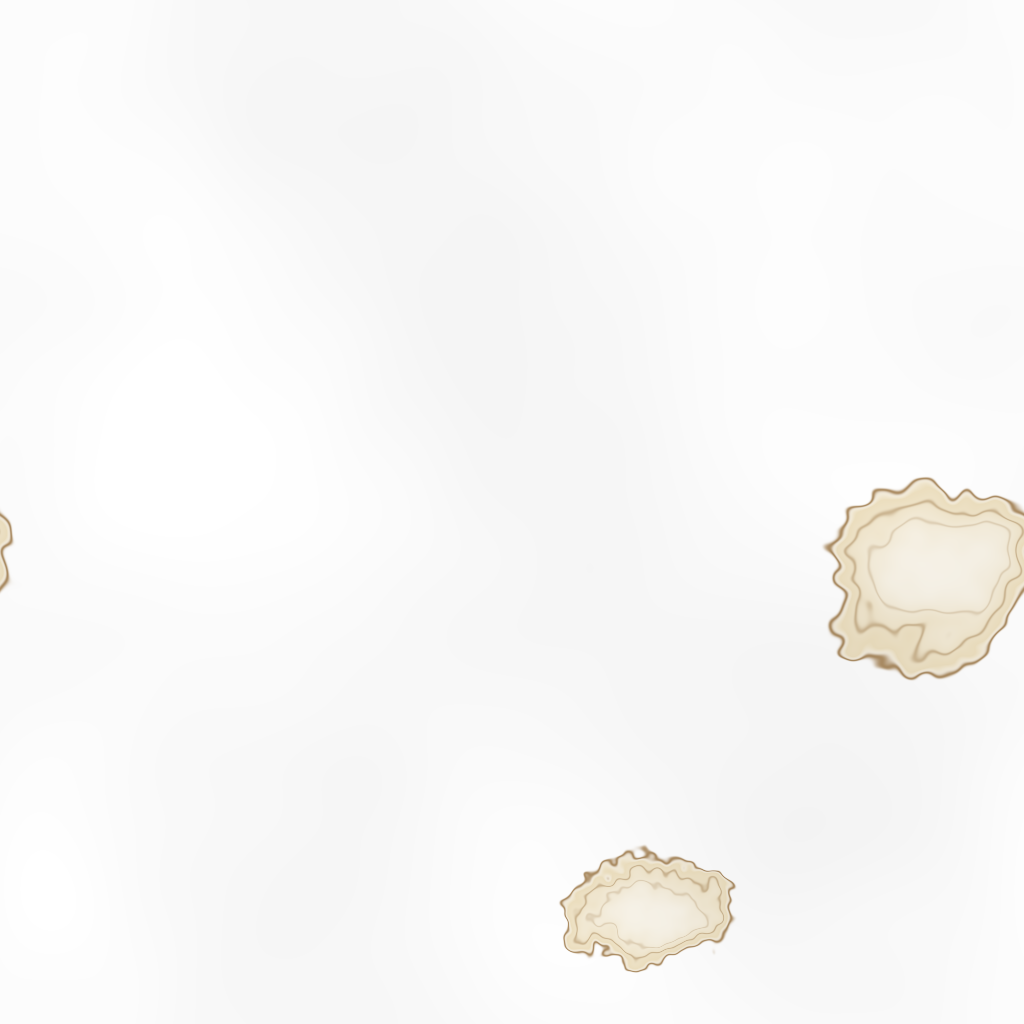
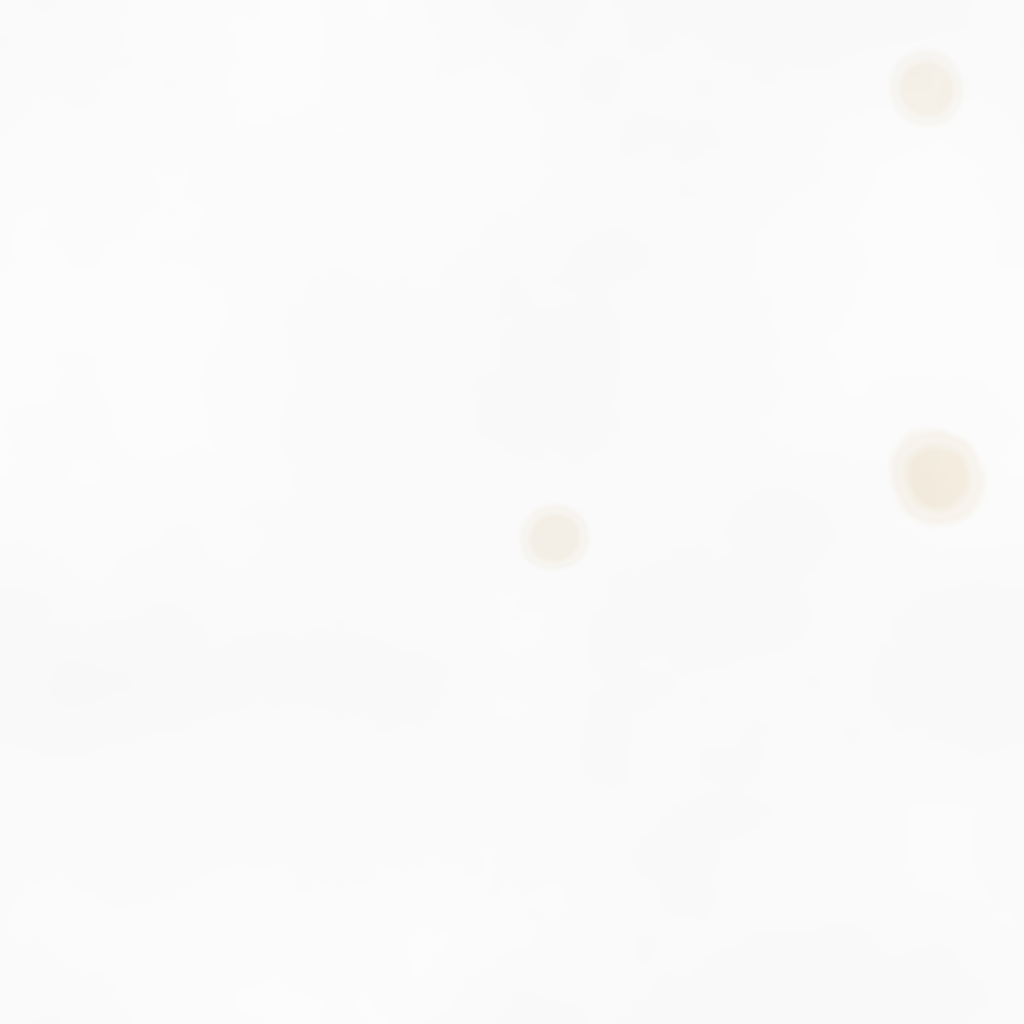
Softer, realistic grime (no outlined cartoon stains); seated pharmacist; mom walk/run poses in tests
Claude-Session: https://claude.ai/code/session_01RAJMRmio3YpQbQiqMDM3tq

Changed region(s): [[0.8125, 0.4375, 1.0, 0.6875], [0.5312, 0.8125, 0.7188, 0.9688], [0.0, 0.5, 0.0312, 0.5938]]

diff --git a/tools/godot_assets/make_grime.py b/tools/godot_assets/make_grime.py
@@ -1,0 +1,116 @@
+#!/usr/bin/env python3
+"""Грязь для стен и потолков санатория (sanatorium/assets/grime_wall.png, grime_ceiling.png).
+
+Кладётся поверх текстур умножением (белое — без изменений), в координатах мира (game.gd, _grime): стена —
+одна высота этажа (3,3 м) на текстуру по вертикали, 12 м по горизонтали; низ картинки — пол. Потолок —
+10 × 10 м. Повторяется по X (и по Z у потолка) без шва.
+
+Как в жизни, а не нарисовано: протечки — мягкие неровные пятна (тёплый жёлто-бурый, к краю бледнее, край
+чуть темнее, но без контура), под ними — размытый потёк; под потолком — пыльная полоса; у пола — затёртая
+полоса и редкие следы от тележек и колёс; краска — едва заметно неровная. Всё бледно: стены не «в пятнах».
+
+Запуск: python3 make_grime.py <папка sanatorium/assets>
+"""
+import os
+import sys
+
+import numpy as np
+from PIL import Image, ImageFilter
+
+OUT = sys.argv[1]
+rng = np.random.default_rng(1980)
+
+
+def noise(h, w, cells, octaves=5, wrap_y=False):
+    """Сумма слоёв value-шума, бесшовная по X (и по Y, если wrap_y). 0..1."""
+    out = np.zeros((h, w))
+    amp, tot = 1.0, 0.0
+    for o in range(octaves):
+        cy, cx = max(2, int(cells[0] * 2 ** o)), max(2, int(cells[1] * 2 ** o))
+        g = rng.random((cy + 1, cx + 1))
+        g[:, -1] = g[:, 0]
+        if wrap_y:
+            g[-1, :] = g[0, :]
+        ys = np.linspace(0, cy, h, endpoint=False) if wrap_y else np.linspace(0, cy, h)
+        xs = np.linspace(0, cx, w, endpoint=False)
+        y0 = np.clip(ys.astype(int), 0, cy - 1); x0 = np.clip(xs.astype(int), 0, cx - 1)
+        ty = (ys - y0)[:, None]; tx = (xs - x0)[None, :]
+        ty = ty * ty * (3 - 2 * ty); tx = tx * tx * (3 - 2 * tx)
+        a = g[y0][:, x0]; b = g[y0][:, x0 + 1]; c = g[y0 + 1][:, x0]; d = g[y0 + 1][:, x0 + 1]
+        out += amp * ((a * (1 - tx) + b * tx) * (1 - ty) + (c * (1 - tx) + d * tx) * ty)
+        tot += amp
+        amp *= 0.5
+    return out / tot
+
+
+def save(rgb, name):
+    img = Image.fromarray(np.clip(rgb * 255, 0, 255).astype(np.uint8), "RGB")
+    img = img.filter(ImageFilter.GaussianBlur(0.6))
+    img.save(os.path.join(OUT, name), optimize=True)
+    print("wrote", name, img.size)
+
+
+def wrapped_dx(xx, cx, w):
+    d = np.abs(xx - cx)
+    return np.minimum(d, w - d)
+
+
+# ---------------------------------------------------------------- стена: 12 м × 3,3 м
+W, H = 1536, 512
+yy, xx = np.mgrid[0:H, 0:W].astype(float)
+hm = (H - 1 - yy) / H * 3.3                       # высота над полом, м
+rgb = np.ones((H, W, 3))
+# неровная старая краска: очень слабо
+n = noise(H, W, (2, 6), 5)
+rgb *= (0.975 + 0.025 * n)[..., None]
+# пыль под потолком (верхние ~12 см)
+top = np.clip(1 - (3.3 - hm) / 0.14, 0, 1) ** 1.6
+rgb *= (1 - 0.06 * top * (0.7 + 0.3 * noise(H, W, (2, 24), 3)))[..., None]
+# у пола: затёртая полоса (до ~30 см) и следы колёс / тележек
+low = np.clip(1 - hm / 0.32, 0, 1) ** 1.4
+band = noise(H, W, (3, 40), 4)
+rgb *= (1 - (0.10 + 0.08 * band) * low)[..., None] * np.array([1.0, 0.99, 0.975])
+for _ in range(14):
+    cx = rng.uniform(0, W); ln = rng.uniform(60, 260); hgt = rng.uniform(0.08, 0.26)
+    cy = H - 1 - hgt / 3.3 * H
+    d = np.exp(-((yy - cy) / rng.uniform(1.2, 3.0)) ** 2) * np.exp(-(wrapped_dx(xx, cx, W) / ln) ** 4)
+    rgb *= (1 - 0.10 * d)[..., None]
+# протечки: 2–3 на 12 м, от потолка вниз, мягкие и неровные
+for k in range(3):
+    cx = (k + rng.uniform(0.15, 0.85)) * W / 3
+    r_m = rng.uniform(0.25, 0.55)                    # радиус пятна, м
+    cy_m = 3.3 - rng.uniform(0.05, 0.25)
+    dx = wrapped_dx(xx, cx, W) / (W / 12.0)
+    dy = (hm - cy_m) * rng.uniform(0.9, 1.3)
+    dist = np.sqrt(dx ** 2 + dy ** 2) / r_m
+    edge = noise(H, W, (6, 36), 4)
+    f = dist + (edge - 0.5) * 0.7                    # неровный край
+    inside = np.clip((1.0 - f) / 0.35, 0, 1) ** 1.3  # мягкий спад к краю, без контура
+    rim = np.exp(-((f - 0.95) / 0.10) ** 2) * 0.35   # край чуть темнее (высохшая вода), размыто
+    mottled = 0.75 + 0.25 * noise(H, W, (10, 60), 3)
+    strength = rng.uniform(0.10, 0.18)
+    stain = np.clip(inside * mottled + rim, 0, 1) * strength
+    tint = np.array([0.18, 0.32, 0.62])              # тёплый жёлто-бурый: синий уходит сильнее
+    rgb *= (1 - stain[..., None] * tint / 0.62 * np.array([0.55, 0.75, 1.0]))
+    # потёк вниз: широкий, мягкий, бледнеет
+    run = np.exp(-(dx / rng.uniform(0.05, 0.12)) ** 2) * np.clip(1 - (cy_m - r_m * 0.6 - hm) / rng.uniform(0.4, 0.9), 0, 1)
+    run *= (hm < cy_m - r_m * 0.4) * 0.07
+    rgb *= (1 - run[..., None] * np.array([0.5, 0.7, 1.0]))
+save(rgb, "grime_wall.png")
+
+# ---------------------------------------------------------------- потолок: 10 × 10 м
+S = 1024
+yy, xx = np.mgrid[0:S, 0:S].astype(float)
+rgb = np.ones((S, S, 3))
+n = noise(S, S, (3, 3), 5, wrap_y=True)
+rgb *= (0.97 + 0.03 * n)[..., None]
+for k in range(3):
+    cx, cy = rng.uniform(0, S), rng.uniform(0, S)
+    r = rng.uniform(0.3, 0.7) * S / 10
+    dx = np.minimum(np.abs(xx - cx), S - np.abs(xx - cx)); dy = np.minimum(np.abs(yy - cy), S - np.abs(yy - cy))
+    f = np.sqrt(dx ** 2 + dy ** 2) / r + (noise(S, S, (8, 8), 4, wrap_y=True) - 0.5) * 0.7
+    inside = np.clip((1.0 - f) / 0.35, 0, 1) ** 1.3
+    rim = np.exp(-((f - 0.95) / 0.10) ** 2) * 0.35
+    stain = np.clip(inside * (0.75 + 0.25 * noise(S, S, (14, 14), 3, wrap_y=True)) + rim, 0, 1) * rng.uniform(0.08, 0.14)
+    rgb *= (1 - stain[..., None] * np.array([0.3, 0.55, 1.0]))
+save(rgb, "grime_ceiling.png")
